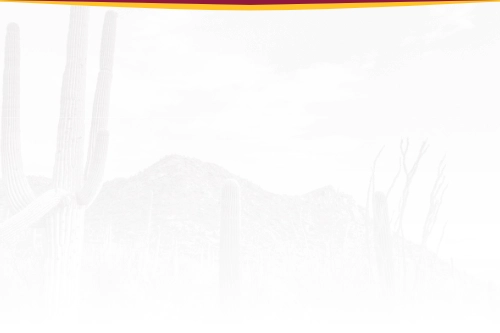
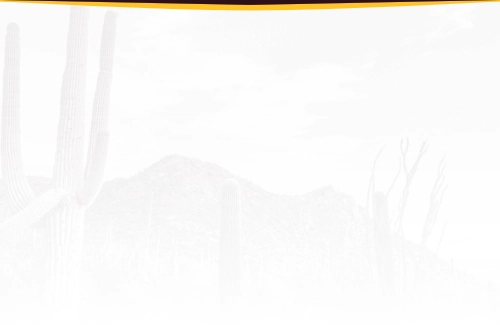
background-fix

Changed region(s): [[0.09, 0.0, 0.9, 0.03]]

diff --git a/css/unstoppableaz.css b/css/unstoppableaz.css
@@ -1,13 +1,13 @@
 :root {
-  --purple-20: #8E0D3A;
+  --purple-20: #5F1931;
   --black: #1a1a1a;
   --purple: #8E0D3A;
   --yellow: #FFC424;
-  --purple-80: #8E0D3A;
+  --purple-80: #2F0613;
   --white: white;
   --light-yellow: #FFD968;
   --white-yellow: #FFF3CF;
-  --purple-40: #8E0D3A;
+  --purple-40: #471020;
   --white-40: #a6a8aa;
   --card: #ffffff4d;
   --light-purple: #B84C72;
@@ -123,7 +123,7 @@ li {
 
 .header-main {
   background-color: var(--purple-80);
-  background-image: linear-gradient(#8E0D3Ab3, #8E0D3A 93%), url('../images/home-hero.webp');
+  background-image: linear-gradient(#2F0613b3, #2F0613 93%), url('../images/home-hero.webp');
   background-position: 0 0, 100% 20%;
   background-repeat: repeat, no-repeat;
   padding-top: 13rem;
@@ -407,7 +407,7 @@ li {
 }
 
 .section-main.purple.bg-image {
-  background-image: linear-gradient(180deg, var(--purple-80), #8E0D3A4d 50%, var(--purple-80)), url('../images/anthony-robles_background-edit.png');
+  background-image: linear-gradient(180deg, var(--purple-80), #2F06134d 50%, var(--purple-80)), url('../images/anthony-robles_background-edit.png');
   background-position: 0 0, -150px 0;
   background-repeat: repeat, no-repeat;
   background-size: auto, auto;
@@ -1670,7 +1670,7 @@ li {
   }
 
   .section-main.purple.bg-image {
-    background-image: linear-gradient(180deg, var(--purple-80), #8E0D3A4d 50%, var(--purple-80)), url('../images/anthony-robles_background-edit.png');
+    background-image: linear-gradient(180deg, var(--purple-80), #2F06134d 50%, var(--purple-80)), url('../images/anthony-robles_background-edit.png');
     background-position: 0 0, -150px 0;
     background-repeat: repeat, no-repeat;
     background-size: auto, auto;

diff --git a/css/unstoppableaz.webflow.css b/css/unstoppableaz.webflow.css
@@ -1,13 +1,13 @@
 :root {
-  --purple-20: #8E0D3A;
+  --purple-20: #5F1931;
   --black: #1a1a1a;
   --purple: #8E0D3A;
   --yellow: #FFC424;
-  --purple-80: #8E0D3A;
+  --purple-80: #2F0613;
   --white: white;
   --light-yellow: #FFD968;
   --white-yellow: #FFF3CF;
-  --purple-40: #8E0D3A;
+  --purple-40: #471020;
   --white-40: #a6a8aa;
   --card: #ffffff4d;
   --light-purple: #B84C72;
@@ -123,7 +123,7 @@ li {
 
 .header-main {
   background-color: var(--purple-80);
-  background-image: linear-gradient(#8E0D3Ab3, #8E0D3A 93%), url('../images/home-hero.webp');
+  background-image: linear-gradient(#2F0613b3, #2F0613 93%), url('../images/home-hero.webp');
   background-position: 0 0, 100% 20%;
   background-repeat: repeat, no-repeat;
   padding-top: 13rem;
@@ -418,7 +418,7 @@ li {
 }
 
 .section-main.purple.bg-image {
-  background-image: linear-gradient(180deg, var(--purple-80), #8E0D3A4d 50%, var(--purple-80)), url('../images/anthony-robles_background-edit.png');
+  background-image: linear-gradient(180deg, var(--purple-80), #2F06134d 50%, var(--purple-80)), url('../images/anthony-robles_background-edit.png');
   background-position: 0 0, -150px 0;
   background-repeat: repeat, no-repeat;
   background-size: auto, auto;
@@ -1769,7 +1769,7 @@ li {
   }
 
   .section-main.purple.bg-image {
-    background-image: linear-gradient(180deg, var(--purple-80), #8E0D3A4d 50%, var(--purple-80)), url('../images/anthony-robles_background-edit.png');
+    background-image: linear-gradient(180deg, var(--purple-80), #2F06134d 50%, var(--purple-80)), url('../images/anthony-robles_background-edit.png');
     background-position: 0 0, -150px 0;
     background-repeat: repeat, no-repeat;
     background-size: auto, auto;
